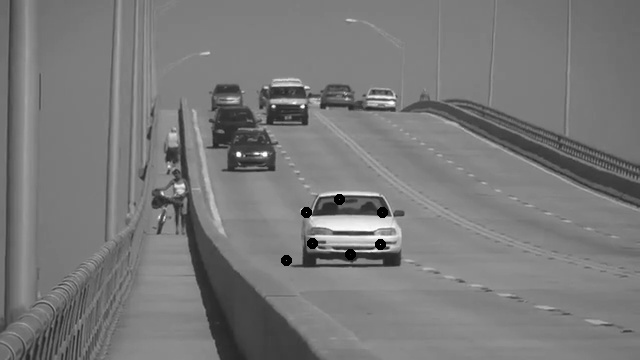
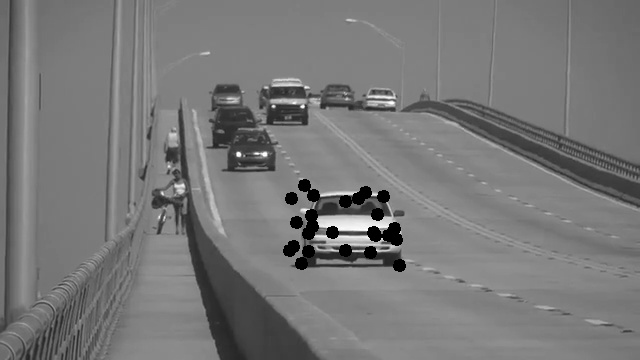
parameter tuning ongoing

Changed region(s): [[0.4375, 0.4889, 0.6562, 0.7639]]

diff --git a/optical_flow.py b/optical_flow.py
@@ -19,15 +19,12 @@ def getFeatures(img,bbox):
     y2=np.ndarray.item(bbox[:,1,1])
     x1=np.ndarray.item(bbox[:,0,0])
     x2=np.ndarray.item(bbox[:,1,0])
-    #crop_img=np.copy(img[y1:y2,x1:x2])
     mask = np.zeros(img.shape, dtype=np.uint8)
     mask[y1:y2, x1:x2] = 255
 
-    features = cv2.goodFeaturesToTrack(img,1,0.01,10, mask=mask)
+    features = cv2.goodFeaturesToTrack(img,25,0.01,10, mask=mask)
     print("THIS FEATURES", features)
-    # features = cv2.goodFeaturesToTrack(crop_img,30,0.01,10)
     corners=np.int32(features)
-    #map_to_original = np.array([[[x1, y1] for _ in range(len(corners))]]).reshape(corners.shape) + corners
     img_to_show = img.copy()
     for i in corners:
         x,y = i.ravel()
@@ -50,36 +47,23 @@ def estimateFeatureTranslation(feature, Ix, Iy, img1, img2):
         new_feature: Coordinate of feature point in second frame, (2,)
     Instruction: Please feel free to use interp2() and getWinBound() from helpers
     """
-    It=img2-img1
-    nr=np.arange(img1.shape[0])
-    nc=np.arange(img1.shape[1])
-#    i_It=interp2(It,nc,nr)
-#    i_Ix=interp2(Ix,nc,nr)
-#    i_Iy=interp2(Iy,nc,nr)
-
-    winsize=15
+    winsize=30
     s=(winsize+1)//2
     x=np.ndarray.item(feature[:,0])
     y=np.ndarray.item(feature[:,1])
     win_l,win_r,win_t,win_b=getWinBound(img1.shape, x, y, winsize)
-    x=int(x)
-    y=int(y)
-    win_l = int(win_l)
-    win_r = int(win_r)
-    win_t = int(win_t)
-    win_b = int(win_b)
-    #img1_window=select_win(img1,slice(y-s,y+s),slice(x-s,x+s))
-    #img1_window=img1[y-s:y+s,x-s:x+s]
-    img1_window=img1[win_t:win_b,win_l:win_r]
+    win_l = np.round(win_l).astype(int)
+    win_r = np.round(win_r).astype(int)
+    win_t = np.round(win_t).astype(int)
+    win_b = np.round(win_b).astype(int)
+    img1_window=img1[win_t:win_b,win_l:win_r].copy()
     #print("THIS IS IMG WINDOW", img1_window)
-    #img2_window=select_win(img2,slice(y-s,y+s),slice(x-s,x+s))
-    #img2_window=img2[y-s:y+s,x-s:x+s]
-    img2_window=img2[win_t:win_b,win_l:win_r]
+    img2_window=img2[win_t:win_b,win_l:win_r].copy()
     dx_sum=0
     dy_sum=0
     for i in range(30):
         #print("BEFORE OF: ", img1_window.shape, img2_window.shape)
-        #if img1_window.shape != (16, 16):
+        #if img2_window.shape != (16, 16):
         #    break
         dx,dy=optical_flow(img1_window,img2_window,5,1)
         dx_sum+=dx
@@ -89,9 +73,10 @@ def estimateFeatureTranslation(feature, Ix, Iy, img1, img2):
         if i == 29:
             print(" FINAL DX DY", dx, dy, dx_sum, dy_sum)
         img2_shift=get_new_img(img2,dx_sum,dy_sum)
-        #img1_window=select_win(img1_shift,slice(y-s,y+s),slice(x-s,x+s))
-        img2_window=img2_shift[win_t:win_b,win_l:win_r]
+        img2_window=img2_shift[win_t:win_b,win_l:win_r].copy()
 
+    dx_sum=np.round(dx_sum).astype(int)
+    dy_sum=np.round(dy_sum).astype(int)
     new_feature = feature + np.array((dx_sum, dy_sum))
     return new_feature
 

diff --git a/main.py b/main.py
@@ -57,7 +57,7 @@ def objectTracking(rawVideo):
                 frame_old = frame.copy()
                 vis = frame.copy()
                 features = new_features
-                if(frame_cnt==40): #temp condition
+                if(frame_cnt==100): #temp condition
                     break
                 imgs.append(img_as_ubyte(vis))
             """ 
